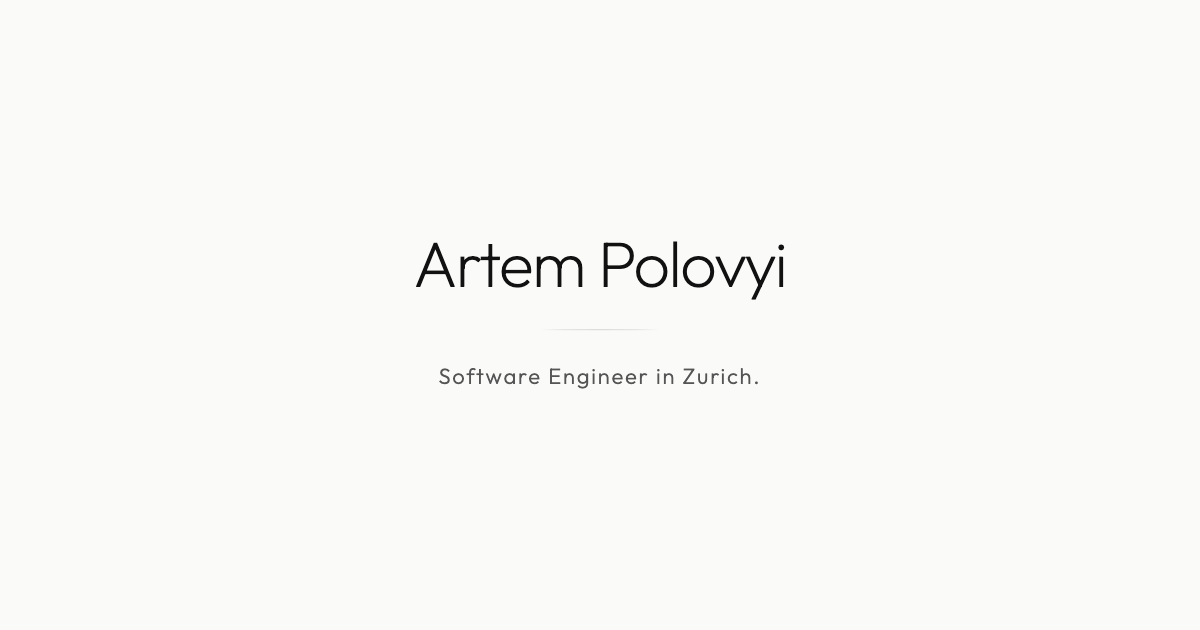
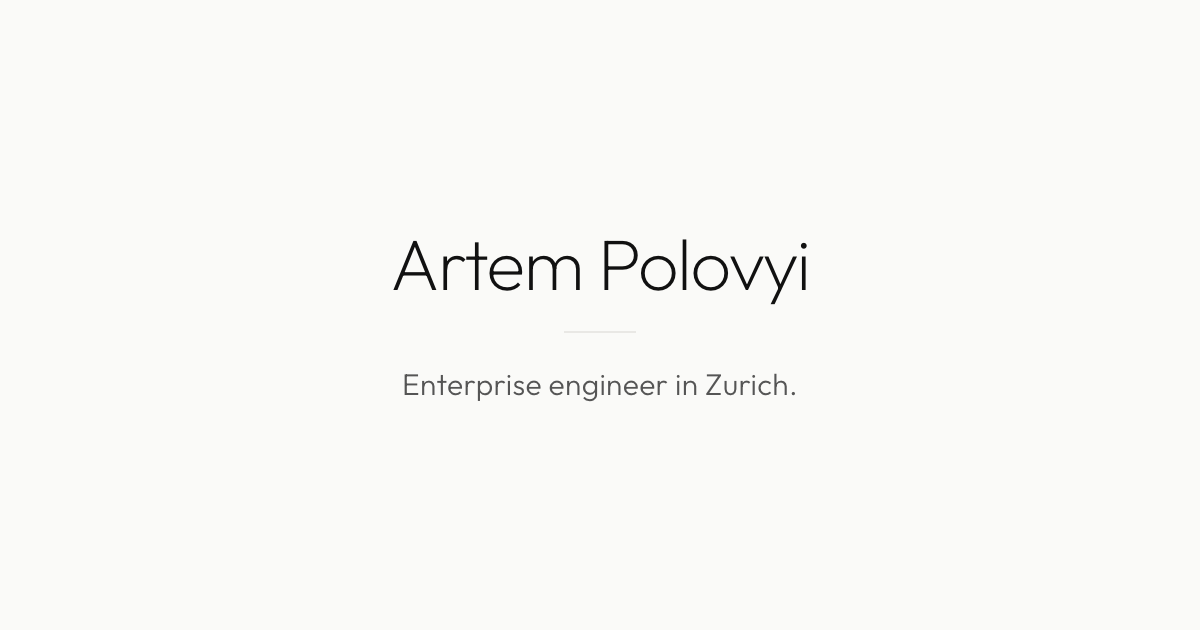
Refresh hero copy, typography, and OG image (#21)
* Refresh hero copy, typography, and OG image

* Note OG subtitle intentionally differs from page copy

Changed region(s): [[0.3083, 0.3619, 0.6783, 0.4825], [0.3392, 0.573, 0.6475, 0.6333]]

diff --git a/scripts/og-image.html b/scripts/og-image.html
@@ -1,0 +1,65 @@
+<!doctype html>
+<!--
+  Source template for public/og-image.png (1200x630).
+  Regenerate after editing: open in a 1200x630 viewport and screenshot.
+  Mirrors the site hero: Outfit font, design tokens from app/globals.css.
+  Subtitle intentionally differs from the page ("Enterprise software
+  engineering, AI-first.") — OG cards use shorter, location-anchored copy.
+-->
+<html lang="en">
+	<head>
+		<meta charset="utf-8" />
+		<link rel="preconnect" href="https://fonts.googleapis.com" />
+		<link rel="preconnect" href="https://fonts.gstatic.com" crossorigin />
+		<link
+			href="https://fonts.googleapis.com/css2?family=Outfit:wght@200;300&display=swap"
+			rel="stylesheet"
+		/>
+		<style>
+			* {
+				margin: 0;
+				padding: 0;
+				box-sizing: border-box;
+			}
+			html,
+			body {
+				width: 1200px;
+				height: 630px;
+			}
+			body {
+				display: flex;
+				flex-direction: column;
+				align-items: center;
+				justify-content: center;
+				background: #fafaf8;
+				font-family: 'Outfit', sans-serif;
+				-webkit-font-smoothing: antialiased;
+				text-rendering: geometricPrecision;
+			}
+			.name {
+				font-weight: 200;
+				font-size: 72px;
+				letter-spacing: -0.02em;
+				color: #111;
+				line-height: 1;
+			}
+			.divider {
+				width: 72px;
+				height: 1px;
+				background: #d8d6d2;
+				margin: 32px 0;
+			}
+			.subtitle {
+				font-weight: 300;
+				font-size: 30px;
+				letter-spacing: 0.01em;
+				color: #555;
+			}
+		</style>
+	</head>
+	<body>
+		<div class="name">Artem Polovyi</div>
+		<div class="divider"></div>
+		<div class="subtitle">Enterprise engineer in Zurich.</div>
+	</body>
+</html>

diff --git a/e2e/locale-routing.spec.ts b/e2e/locale-routing.spec.ts
@@ -1,39 +1,18 @@
 import { expect, test } from '@playwright/test'
 
-import { TIMEOUTS, waitForPageReady } from './test-utils'
+import { waitForPageReady } from './test-utils'
 
-test.describe('Locale Routing', () => {
-	test('/en loads with correct lang and English content', async ({ page }) => {
-		await page.goto('/en')
+const LOCALES = [
+	{ path: '/en', lang: 'en' },
+	{ path: '/de', lang: 'de' },
+	{ path: '/ch', lang: 'de-CH' },
+	{ path: '/uk', lang: 'uk' },
+]
+
+test('all locales set correct lang attribute', async ({ page }) => {
+	for (const { path, lang } of LOCALES) {
+		await page.goto(path)
 		await waitForPageReady(page)
-
-		expect(await page.locator('html').getAttribute('lang')).toBe('en')
-		await expect(page.getByText('Enterprise engineering, AI-first.')).toBeVisible({
-			timeout: TIMEOUTS.visibility,
-		})
-	})
-
-	test('/de loads with correct lang and German content', async ({ page }) => {
-		await page.goto('/de')
-		await waitForPageReady(page)
-
-		expect(await page.locator('html').getAttribute('lang')).toBe('de')
-		await expect(page.getByText('Enterprise Engineering, AI-first.')).toBeVisible({
-			timeout: TIMEOUTS.visibility,
-		})
-	})
-
-	test('/ch loads with correct lang', async ({ page }) => {
-		await page.goto('/ch')
-		await waitForPageReady(page)
-
-		expect(await page.locator('html').getAttribute('lang')).toBe('de-CH')
-	})
-
-	test('/uk loads with correct lang', async ({ page }) => {
-		await page.goto('/uk')
-		await waitForPageReady(page)
-
-		expect(await page.locator('html').getAttribute('lang')).toBe('uk')
-	})
+		expect(await page.locator('html').getAttribute('lang')).toBe(lang)
+	}
 })

diff --git a/app/layout.tsx b/app/layout.tsx
@@ -5,12 +5,12 @@ import '@/app/globals.css'
 export const metadata: Metadata = {
 	title: 'Artem Polovyi — Enterprise Engineering, AI-first',
 	description:
-		'Enterprise engineer in Zurich. A decade of systems at Audi, Infineon, UBS, Flowable, and PEAX. Now making AI behave in production.',
+		'Enterprise engineer in Zurich. A decade of systems at Audi, Infineon, UBS, Flowable, and PEAX. Now making AI production-grade.',
 	metadataBase: new URL('https://apolovyi.me'),
 	openGraph: {
 		title: 'Artem Polovyi — Enterprise Engineering, AI-first',
 		description:
-			'Enterprise engineer in Zurich. A decade of systems at Audi, Infineon, UBS, Flowable, and PEAX. Now making AI behave in production.',
+			'Enterprise engineer in Zurich. A decade of systems at Audi, Infineon, UBS, Flowable, and PEAX. Now making AI production-grade.',
 		url: 'https://apolovyi.me',
 		siteName: 'Artem Polovyi',
 		images: [{ url: '/og-image.png', width: 1200, height: 630, alt: 'Artem Polovyi — Enterprise Engineering, AI-first' }],

diff --git a/app/globals.css b/app/globals.css
@@ -92,19 +92,21 @@
 .hero-name {
 	color: var(--text-primary);
 	font-weight: 200;
-	font-size: clamp(2.25rem, 1.2rem + 4vw, 4rem);
+	font-size: clamp(2rem, 1rem + 2.5vw, 3rem);
 }
 
 .hero-subtitle {
 	color: var(--text-secondary);
 	font-weight: 300;
 	font-size: clamp(1.25rem, 1rem + 1.25vw, 1.5rem);
+	text-wrap: balance;
 }
 
 .hero-body {
 	color: var(--text-body);
 	font-weight: 300;
 	font-size: clamp(0.875rem, 0.75rem + 0.625vw, 1rem);
+	text-wrap: balance;
 }
 
 /* ===== Divider ===== */
@@ -135,7 +137,8 @@
 	transition:
 		color 200ms ease,
 		text-shadow 200ms ease;
-	letter-spacing: 0.06em;
+	letter-spacing: 0.2em;
+	text-transform: uppercase;
 	min-height: 44px;
 	display: inline-flex;
 	align-items: center;

diff --git a/e2e/page-content.spec.ts b/e2e/page-content.spec.ts
@@ -10,8 +10,8 @@ test.describe('Page Content', () => {
 		const h1 = page.getByRole('heading', { level: 1 })
 		await expect(h1).toHaveText('Artem Polovyi')
 
-		await expect(page.getByText('Enterprise engineering, AI-first.')).toBeVisible()
-		await expect(page.getByText(/a decade of enterprise systems/)).toBeVisible()
+		await expect(page.getByText('Enterprise software engineering, AI-first.')).toBeVisible()
+		await expect(page.getByText(/a decade of enterprise software systems/)).toBeVisible()
 	})
 
 	test('has three external links with correct attributes', async ({ page }) => {

diff --git a/components/StructuredData.tsx b/components/StructuredData.tsx
@@ -6,7 +6,7 @@ const personData = {
 	'name': 'Artem Polovyi',
 	'url': 'https://apolovyi.me',
 	'image': 'https://apolovyi.me/og-image.png',
-	'description': 'Enterprise engineer in Zurich. Making AI behave in production.',
+	'description': 'Enterprise engineer in Zurich. Making AI production-grade.',
 	'email': LINKS.email.replace('mailto:', ''),
 	'sameAs': [LINKS.linkedin, LINKS.github],
 	'jobTitle': 'Enterprise Engineer',

diff --git a/app/[lang]/page.tsx b/app/[lang]/page.tsx
@@ -41,7 +41,7 @@ export default async function Page({ params }: { params: Promise<{ lang: string 
 					</p>
 
 					<nav
-						className="mt-[clamp(2.5rem,1.5rem+3vw,3.5rem)] flex items-center justify-center gap-0 tracking-[0.2em] uppercase"
+						className="mt-[clamp(2.5rem,1.5rem+3vw,3.5rem)] flex items-center justify-center gap-0"
 						aria-label={page.linksLabel}
 					>
 						<a

diff --git a/PRODUCT.md b/PRODUCT.md
@@ -1,0 +1,35 @@
+# Product
+
+## Register
+
+brand
+
+## Users
+
+Mixed audience: CTOs and engineering managers evaluating a senior hire, companies assessing a consultant for enterprise AI/systems work, and peer engineers in the same craft space. They arrive via LinkedIn, GitHub, or direct referral. Context is professional evaluation: they want to quickly gauge seniority, domain depth, and whether this person is serious.
+
+## Product Purpose
+
+Personal brand surface for Artem Polovyi, enterprise engineer in Zurich. A decade of systems work at Audi, Infineon, UBS, Flowable, and PEAX, now focused on making AI production-grade. The site exists to convert a name into an impression: senior, precise, substantive. Success is a visitor who leaves thinking "this person knows what they're doing" within five seconds.
+
+## Brand Personality
+
+Quiet, precise, heavy. Like a machined steel instrument. Confidence through density and restraint, not through spectacle or decoration. The site doesn't perform expertise; it simply presents it. Every element earns its place or gets removed.
+
+## Anti-references
+
+- **Generic dev portfolio**: dark mode + terminal font + GitHub contribution graphs + project card grids. Over-indexed on developer identity signaling.
+- **SaaS landing page**: gradient blobs, feature grids, "trusted by" logo bars, CTAs everywhere. Corporate-template energy.
+- **Overly minimal / empty**: white page with tiny text that feels unfinished or pretentious rather than restrained. Minimalism without substance.
+- **Flashy / animated**: scroll-jacking, particle effects, 3D WebGL scenes. Spectacle over substance.
+
+## Design Principles
+
+1. **Authority through restraint**: every element earns its space. Nothing decorative, nothing performative. The absence of noise IS the signal.
+2. **Density carries weight**: the impression of substance comes from precision and deliberate compression, not from sprawl or generous whitespace alone.
+3. **Substance over spectacle**: no animation, effect, or visual trick that doesn't directly communicate competence.
+4. **Only what's real**: no invented metrics, no filler sections, no "about me" prose that restates the obvious. If it can't be verified, it doesn't belong.
+
+## Accessibility & Inclusion
+
+Reasonable defaults: sufficient contrast ratios, keyboard navigable, screen-reader friendly, respects prefers-reduced-motion. No specific WCAG certification target.

diff --git a/DESIGN.md b/DESIGN.md
@@ -12,7 +12,7 @@ colors:
 typography:
   display:
     fontFamily: 'Outfit, system-ui, sans-serif'
-    fontSize: 'clamp(2.25rem, 1.2rem + 4vw, 4rem)'
+    fontSize: 'clamp(2rem, 1rem + 2.5vw, 3rem)'
     fontWeight: 200
     lineHeight: 1.05
     letterSpacing: '-0.025em'
@@ -106,7 +106,7 @@ The dark theme inverts to pure black (#000000) background with white (#ffffff) p
 
 ### Hierarchy
 
-- **Display** (200, clamp(2.25rem, 1.2rem + 4vw, 4rem), line-height 1.05, tracking -0.025em): The hero name. Fluid scaling from mobile to desktop. Ultralight at large scale; the weight thinness is the personality.
+- **Display** (200, clamp(2rem, 1rem + 2.5vw, 3rem), line-height 1.05, tracking -0.025em): The hero name. Fluid scaling from mobile to desktop. Ultralight at large scale; the weight thinness is the personality.
 - **Title** (300, clamp(1.25rem, 1rem + 1.25vw, 1.5rem), line-height 1.25, tracking 0.06em): Hero subtitle. Fluid sizing maintains ~1.25x ratio to body across viewports. Same weight as body; the size and tracking difference carry the hierarchy while preserving the ultralight aesthetic.
 - **Body** (300, clamp(0.875rem, 0.75rem + 0.625vw, 1rem), line-height 1.625): Hero body copy. Light weight for elegant, comfortable sustained reading.
 - **Label** (400, clamp(0.75rem, 0.625rem + 0.625vw, 0.875rem), line-height 1.5, tracking 0.2em, uppercase): Navigation links. Differentiated from body by uppercase, wide tracking, and smaller size. Size ratio from body: ~1.14x.

diff --git a/.claude/docs/e2e-testing.md b/.claude/docs/e2e-testing.md
@@ -2,12 +2,12 @@
 
 > Auto-generated by `scripts/generate-claude-docs.mjs` — do not edit manually.
 
-## Test Inventory (10 tests across 4 files)
+## Test Inventory (7 tests across 4 files)
 
 | File | Tests |
 |------|-------|
 | `dark-mode.spec.ts` | 3 |
-| `locale-routing.spec.ts` | 4 |
+| `locale-routing.spec.ts` | 1 |
 | `page-content.spec.ts` | 2 |
 | `responsive.spec.ts` | 1 |
 
